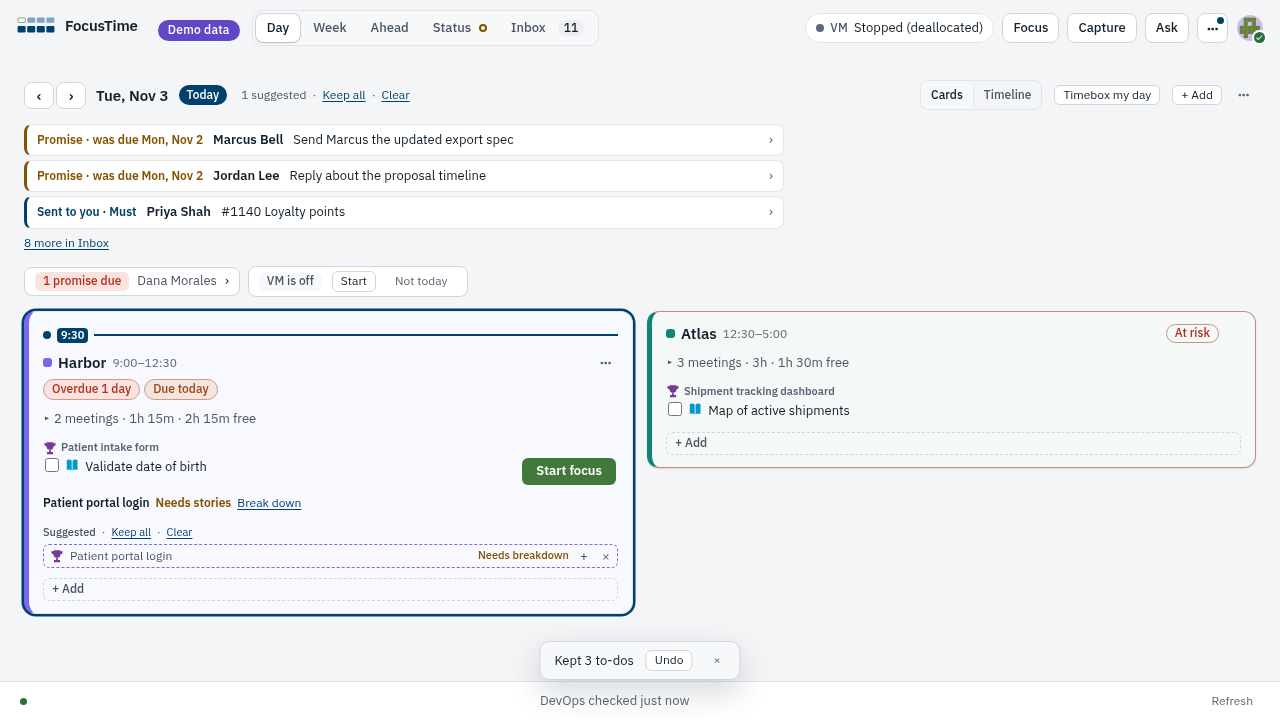
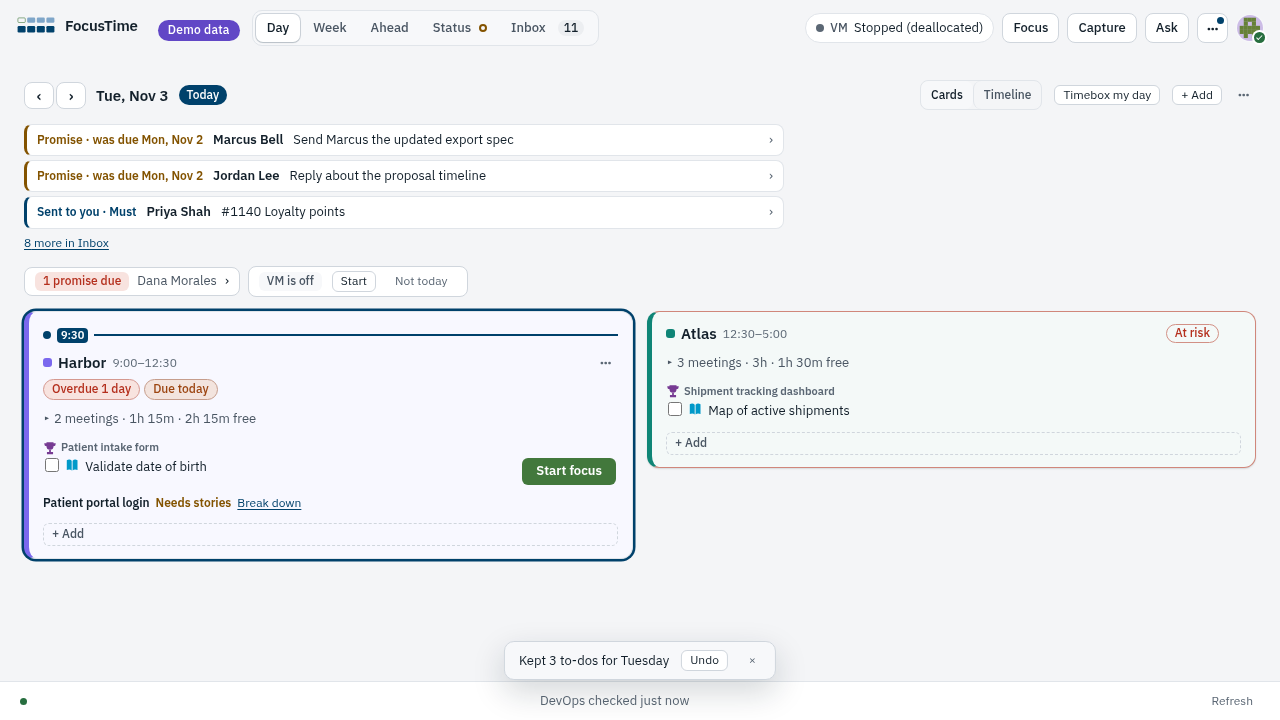
SG-1: final screenshots; Week's day line keeps its word in a 1440 column
Claude-Session: https://claude.ai/code/session_01MZF2Gs4z63iKqTqgmngU8o

Changed region(s): [[0.0, 0.7333, 0.5, 0.8556], [0.4062, 0.8861, 0.5625, 0.9472], [0.1875, 0.1222, 0.3125, 0.1528]]

diff --git a/ui/styles.css b/ui/styles.css
@@ -4612,7 +4612,7 @@ button.ah-chip:hover { background: var(--raised); border-color: var(--text-muted
 .sug-week-day > * { flex: none; }
 .day-head:has(.sug-week-day) { container-type: inline-size; }
 /* A narrow column: the count alone ("2", "2 suggested" on hover). */
-@container (max-width: 25em) { .sug-week-day .sug-w { display: none; } }
+@container (max-width: 23em) { .sug-week-day .sug-w { display: none; } }
 .sug-week-day .link-btn { font-size: var(--fs-1); }
 /* Room for the line: the short date ("Wed 4") while it shows. */
 .day-head:has(.sug-week-day) .date-long { display: none; }

diff --git a/docs/decisions.md b/docs/decisions.md
@@ -2191,5 +2191,5 @@ Unnumbered until merge.
 | - | Done | Replaced UI-B's dashed cards (`SuggestedCards`: "From Mon" with Keep here, Move to…, Drop), the block panel's "N unfinished to-dos suggested in your next blocks · Keep all · Review" line, its Review list and its one-time hint. Kept: the "N to place" notice and its counts, "Unfinished from earlier days" (unfinished to-dos not suggested anywhere now) and From last week. `planday.carry` and `planday.carry_hint` stay registered for an older tab. |
 | - | Done | Not in SG-1: AI, DevOps requests (it reads only loaded DevOps work and my own plan store), days past the next working day, blocks that already have work, creating features or epics, the check-in, the assistant, Ahead, Inbox, Status. Admins see nothing of it. |
 | - | Done | From the review pass (a fresh reviewer with only the diff and sections A to C). Fixed: a row's Clear refused for a client key with a space (the key pattern now takes any printable characters; a test); a load crossing a Clear or its Undo brought the row back or hid it again (pending clears and undos are kept over a load, and a failed Undo says so and stays cleared); a second click before the reload kept the same row twice (rows being kept hide at once); Keep all's Undo didn't wait for a running Keep all and the block refilled from stale to-dos (Undo takes the same lock and the block opens again only on the next load); after Keep or Clear focus fell to the page (it moves to the next suggestion, else the block or header); Week's day line added Tab stops on every day (only the selected day's are in the Tab order). Unchanged on purpose: a block with no free time still gets one (A4 "at least one"; QT-1 lets a full block take work); the fit stops at the first that doesn't fit (backlog order over filling). Held up: Clear then a DevOps change, midnight, nothing assigned, 300 stories, the panel, another client's block (refused by the drop check), the demo without AI, server-side keys per person. |
-| - | Done | Week's day line sits on the header's own row, between the date and ⋯, so the header keeps its height (the grid's rows are shared across days and WD-1 keeps the first block within 200 px of the top at 1440×900). While it shows, the header uses its short date ("Wed 4"); in a column under about 25em the count drops its word ("2 · Keep all · Clear", "2 suggested" on hover and for screen readers). |
+| - | Done | Week's day line sits on the header's own row, between the date and ⋯, so the header keeps its height (the grid's rows are shared across days and WD-1 keeps the first block within 200 px of the top at 1440×900). While it shows, the header uses its short date ("Wed 4"); in a column under about 23em the count drops its word ("2 · Keep all · Clear", "2 suggested" on hover and for screen readers). |
 | - | Done | Older browser tests moved to SG-1's rows (they tested UI-B's dashed cards and Review list, now gone): `e2e/board-suggest.test.ts` (unfinished first in the client's next block, Keep and Undo, Drop in Unfinished from earlier days), `e2e/wk1.test.ts` (the rows show at every tier), `e2e/wd1.test.ts` (keeping an unfinished suggestion lowers To place; Undo checks the to-do list, since the emptied block can offer the story again), `e2e/week-panel.test.ts` (a card's draggable to-dos exclude suggested rows). `e2e/sg1-helpers.ts` empties the demo's blocks for them. |
